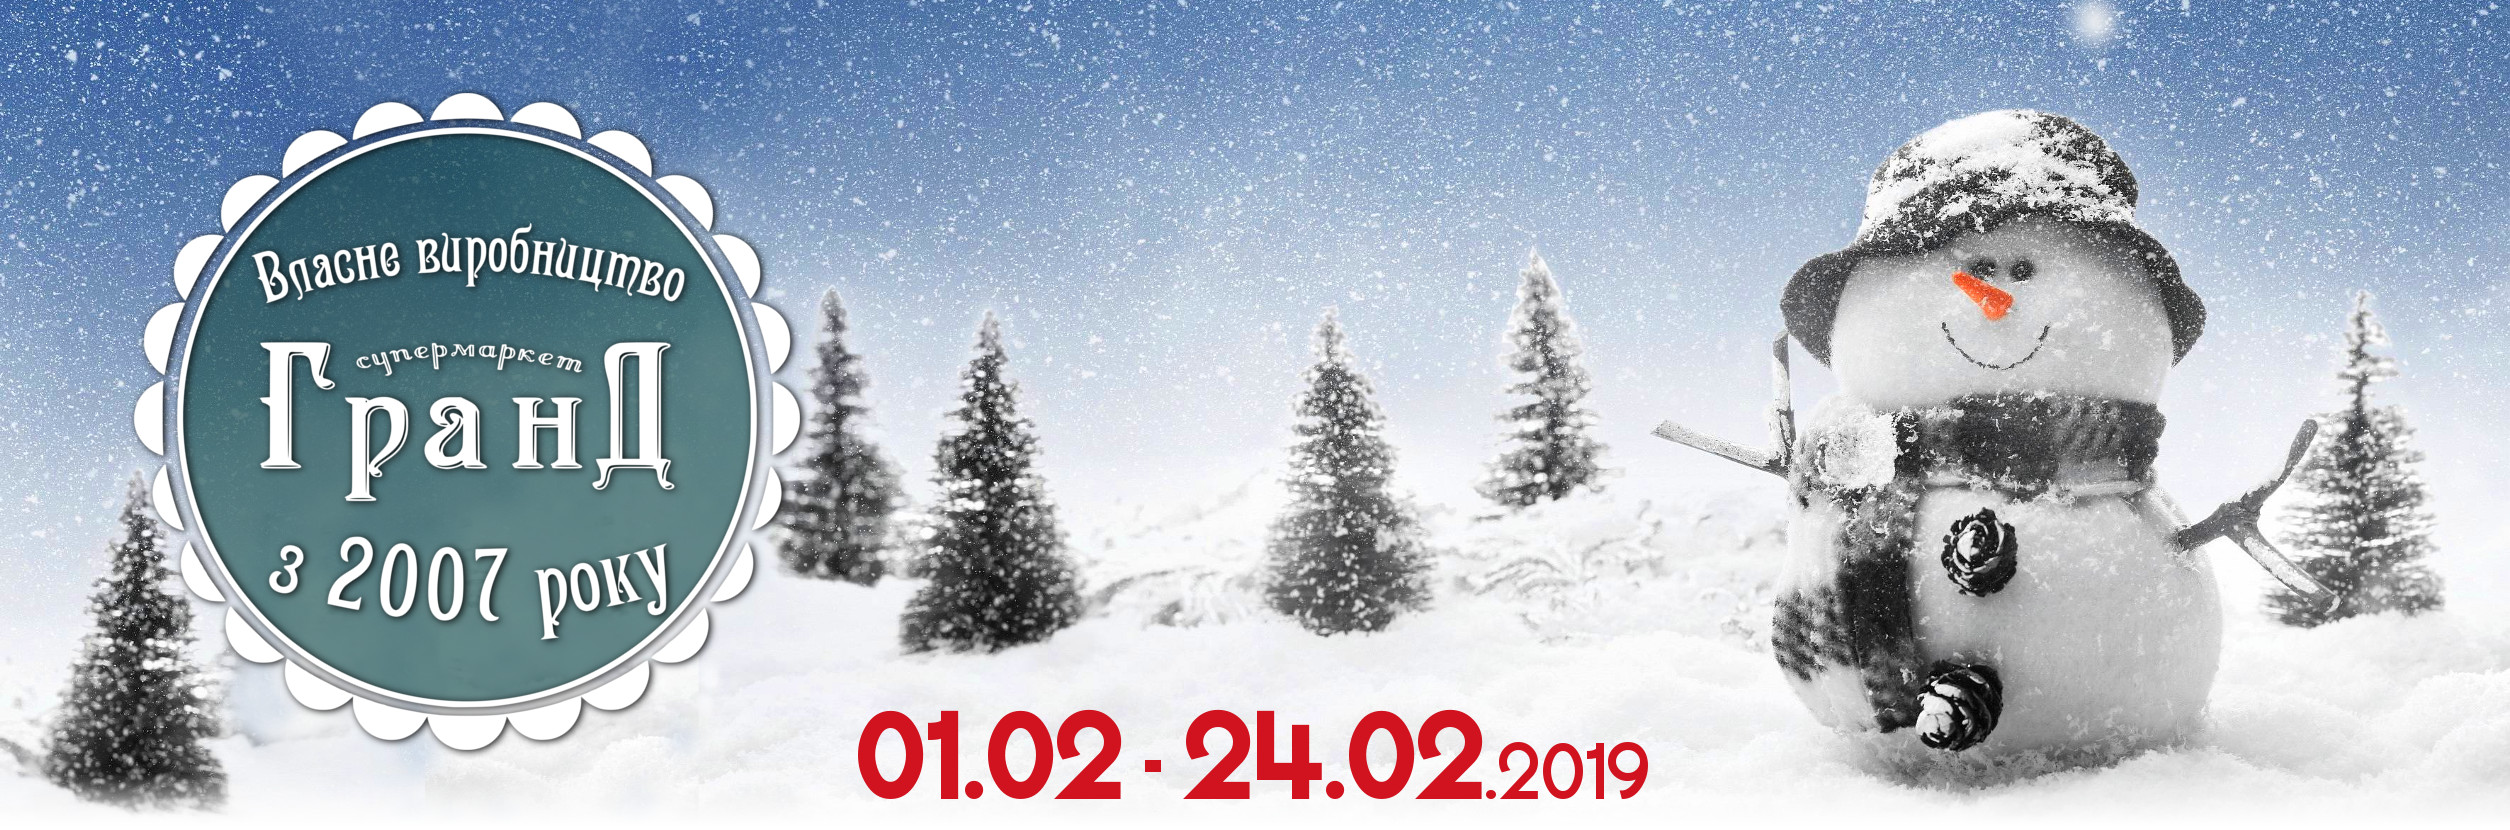
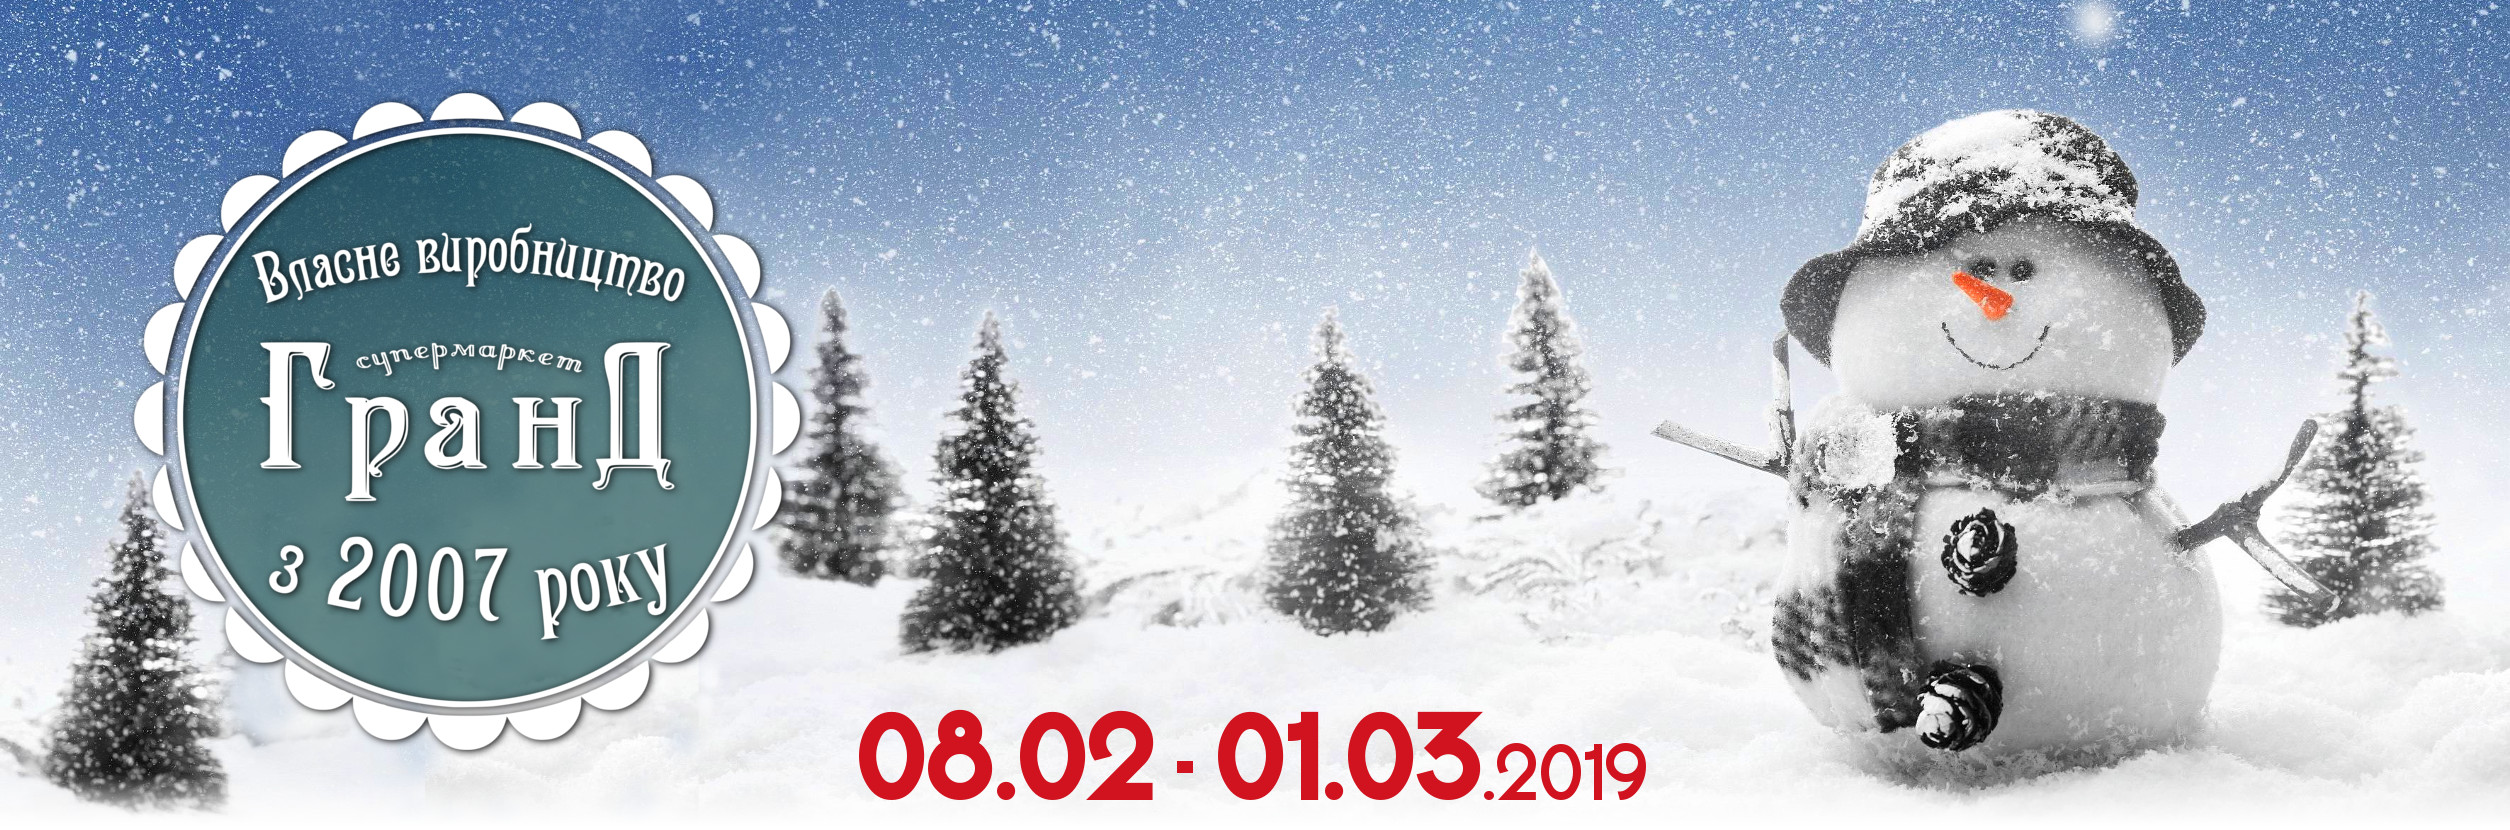
bucletter valentine new date

Changed region(s): [[0.3418, 0.8434, 0.6526, 0.9639]]

diff --git a/grand/buklet/base1.js b/grand/buklet/base1.js
@@ -1,5 +1,5 @@
-let dataVid='01.02'
-let dataDo = '24.02';
+let dataVid='08.02'
+let dataDo = '01.03';
 let base = [
 {
     pic: "21",
